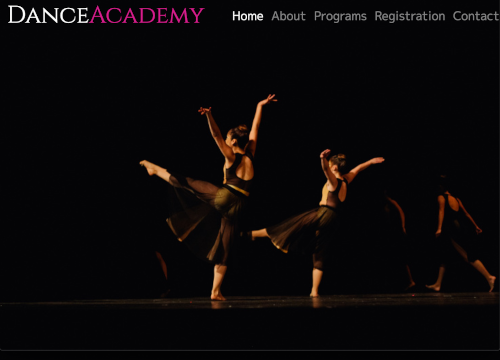
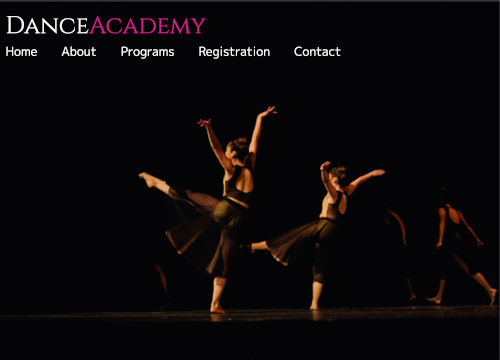
Replace DanceSchool screenshot. Modify class name.

diff --git a/index.html b/index.html
@@ -20,21 +20,22 @@
             <h1 class="landingPageMainHeading">I'm Susan</h1>
 
             <h3 class="landingPageLowerHeading">Here are some of my projects</h3>
-            <a class="linkToPortfolioItems" href="#"><i class="fas fa-arrow-down"></i></a>
+            <a class="linkToPortfolioItems" href="#wrapper"><i class="fas fa-arrow-down"></i></a>
         </div>
     </header>
     <main>
-        <div class="wrapper">
-           <img src="images/WebDevStartingBlockscreenshot.png">
-           <img src="images/DanceSchoolscreenshot.png">
-           <img src="images/MaasUniversityscreenshot.png">
+        <div id="wrapper">
+
+           <a href="https://www.webdevstartingblock.com"><div class="card"><img src="images/WebDevStartingBlockscreenshot.png" alt="Web Dev Starting Block blog landing page"><div class="cardText"><p>My new blog, built with Gatsbyjs (more content coming soon!).</p></div></div></a>
+
+           <div class="card"><img src="images/DanceSchoolscreenshot.png" alt="Dance School landing page"><div class="cardText"><p>Landing page for a fictional dance school. Built with HTML and CSS.</p></div></div>
+
+           <div class="card"><img src="images/MaasUniversityscreenshot.png" alt="Maas University landing page"><div class="cardText"><p>Landing page for a fictional university. Built with HTML, CSS, and JavaScript.</p></div></div>
         </div>
     </main>
     <footer>
-        <a href="credits.html">Credits</a>
+        <small>Copyright 2019, Susan Maas</small>
+        <a href="legal.html"><small>Legal</small></a>
     </footer>
-    <script src="https://code.jquery.com/jquery-3.3.1.slim.min.js" integrity="sha384-q8i/X+965DzO0rT7abK41JStQIAqVgRVzpbzo5smXKp4YfRvH+8abtTE1Pi6jizo" crossorigin="anonymous"></script>
-<script src="https://cdnjs.cloudflare.com/ajax/libs/popper.js/1.14.7/umd/popper.min.js" integrity="sha384-UO2eT0CpHqdSJQ6hJty5KVphtPhzWj9WO1clHTMGa3JDZwrnQq4sF86dIHNDz0W1" crossorigin="anonymous"></script>
-<script src="https://stackpath.bootstrapcdn.com/bootstrap/4.3.1/js/bootstrap.min.js" integrity="sha384-JjSmVgyd0p3pXB1rRibZUAYoIIy6OrQ6VrjIEaFf/nJGzIxFDsf4x0xIM+B07jRM" crossorigin="anonymous"></script>
 </body>
 </html>

diff --git a/styles.css b/styles.css
@@ -2,6 +2,7 @@ body {
     font-family: 'Lato', sans-serif;
     margin: 0;
     background: grey;
+    color: white;
 }
 
 .hero {
@@ -16,13 +17,14 @@ body {
     padding-top: 4rem;
     font-size: 2rem;
     font-weight:100;
+    color: black;
 }
 
 .landingPageMainHeading {
     font-family: 'Heebo', sans-serif;
     font-weight: bold;
     font-size: 4.5rem;
-    color: orange;
+    color: darkorange;
     margin-top: 3.5rem;
     margin-bottom: 3rem;
 }
@@ -35,6 +37,7 @@ i, .fas fa-arrow-down {
 
 .landingPageLowerHeading {
     font-size: 1.5rem;
+    color: black;
 }
 
 img {
@@ -42,7 +45,7 @@ img {
     height: auto;
 }
 
-.wrapper {
+#wrapper {
     padding: 0.5rem;
     margin: 3rem auto;
     max-width: 90%;
@@ -50,4 +53,53 @@ img {
     display: grid;
     grid-template-columns: repeat(3, 1fr);
     grid-gap: 20px;
+}
+
+.card {
+    display: flex;
+    flex-direction: column;
+    background: rgb(83, 80, 80);
+    text-align: center;
+}
+
+.cardText {
+    height: 7rem;
+}
+
+p {
+    margin: 1rem;
+    font-size: 1.2rem;
+}
+
+footer {
+    display: flex;
+    flex-direction: column;
+    padding: 1rem;
+    background-color: rgb(83, 80, 80); 
+    text-align: center;
+}
+
+a {
+    color: white;
+}
+
+a:hover {
+    color: lightskyblue;
+    text-decoration: none;
+}
+
+@media only screen and (max-width: 925px) {
+    #wrapper {
+        grid-template-columns: repeat(2, 1fr);
+    }
+}
+
+@media only screen and (max-width: 610px) {
+    #wrapper {
+        grid-template-columns: repeat(1, 1fr);
+    }
+}
+
+.pageLayout {
+    padding: 2rem;
 }

diff --git a/legal.html b/legal.html
@@ -1,0 +1,25 @@
+<!DOCTYPE html>
+<html lang="en">
+<head>
+    <meta charset="UTF-8">
+    <meta name="viewport" content="width=device-width, initial-scale=1.0">
+    <meta http-equiv="X-UA-Compatible" content="ie=edge">
+   
+    <link rel="stylesheet" href="https://stackpath.bootstrapcdn.com/bootstrap/4.3.1/css/bootstrap.min.css" integrity="sha384-ggOyR0iXCbMQv3Xipma34MD+dH/1fQ784/j6cY/iJTQUOhcWr7x9JvoRxT2MZw1T" crossorigin="anonymous">
+    <link href="https://fonts.googleapis.com/css?family=Heebo&display=swap" rel="stylesheet">
+    <link href="https://fonts.googleapis.com/css?family=Lato:300&display=swap" rel="stylesheet">
+    <link rel="stylesheet" href="https://use.fontawesome.com/releases/v5.8.2/css/all.css" integrity="sha384-oS3vJWv+0UjzBfQzYUhtDYW+Pj2yciDJxpsK1OYPAYjqT085Qq/1cq5FLXAZQ7Ay" crossorigin="anonymous">
+    <link rel="stylesheet" href="styles.css">
+    <title>Susan Maas Portfolio</title>
+</head>
+<body>
+    <div class="pageLayout">
+        <h1>Legal Information</h1>
+        <h2>Site Owner</h2>
+        <p>This site is owned and maintained by Susan Maas</p>
+        <h2>Site Hosting</h2>
+        <p>Github Pages</p>
+        <p>88 Colin P Kelly Jr St, San Francisco, CA 94107, United States</p>
+        <p>+1 (877) 448-4820</p>
+    </div>
+</body>
